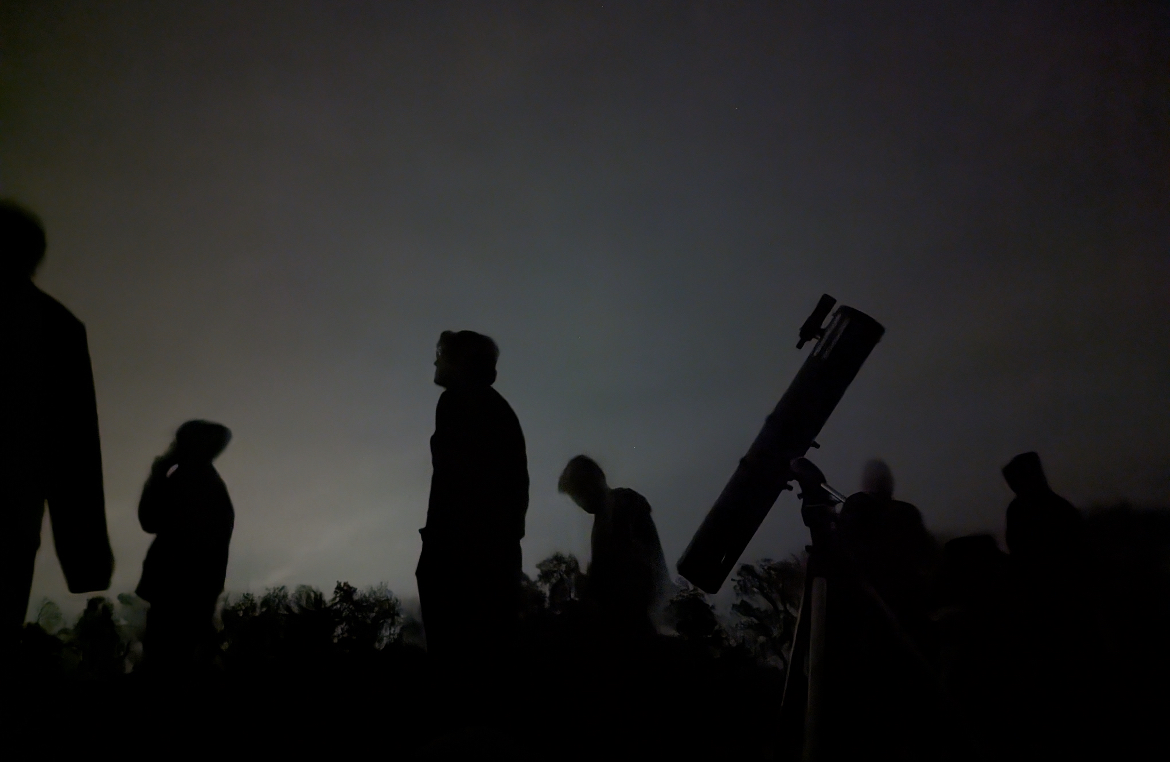
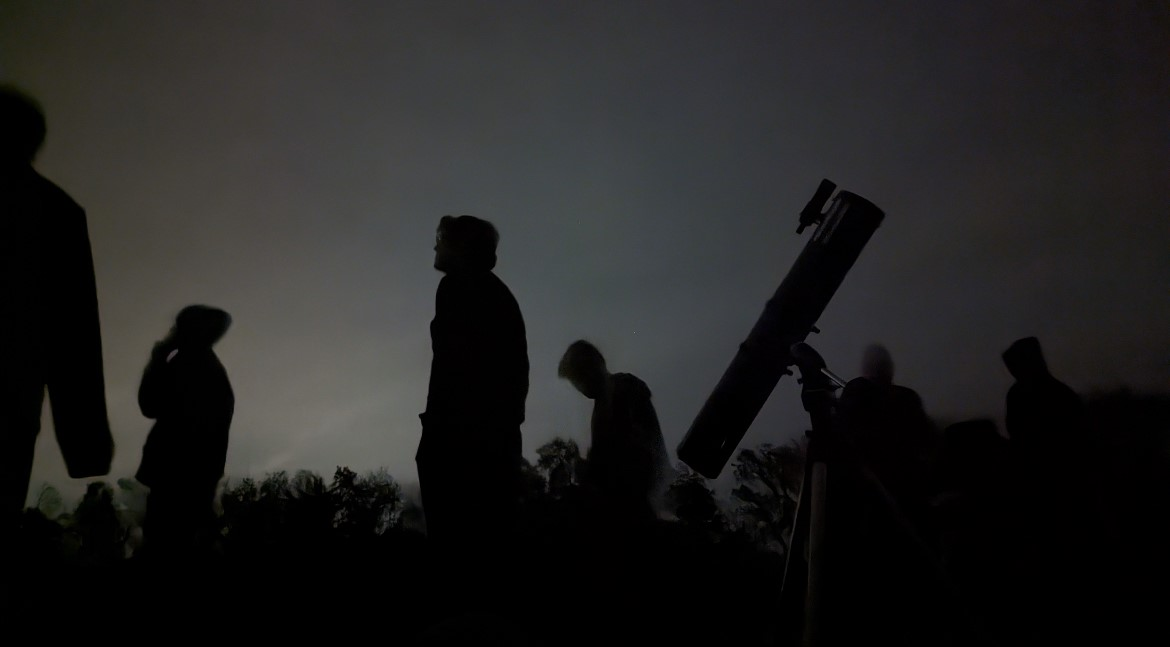
changed pictures

diff --git a/index.html b/index.html
@@ -67,6 +67,7 @@
       .gallery-table img {
         width: 100%;
         height: auto;
+        max-height: 600px;
       }
 
       .main-content {
@@ -121,7 +122,7 @@
         <tr>
           <td><img src="Images/IMG_8462.jpg" alt="Astroclub pic 4" /></td>
           <td><img src="Images/IMG_8464.jpg" alt="Astroclub pic 5" /></td>
-          <td><img src="Images/IMG_8465.jpg" alt="Astroclub pic 6" /></td>
+          <td><img src="Images/IMG_3487.jpeg" alt="Astroclub pic 6" /></td>
         </tr>
       </table>
     </main>
